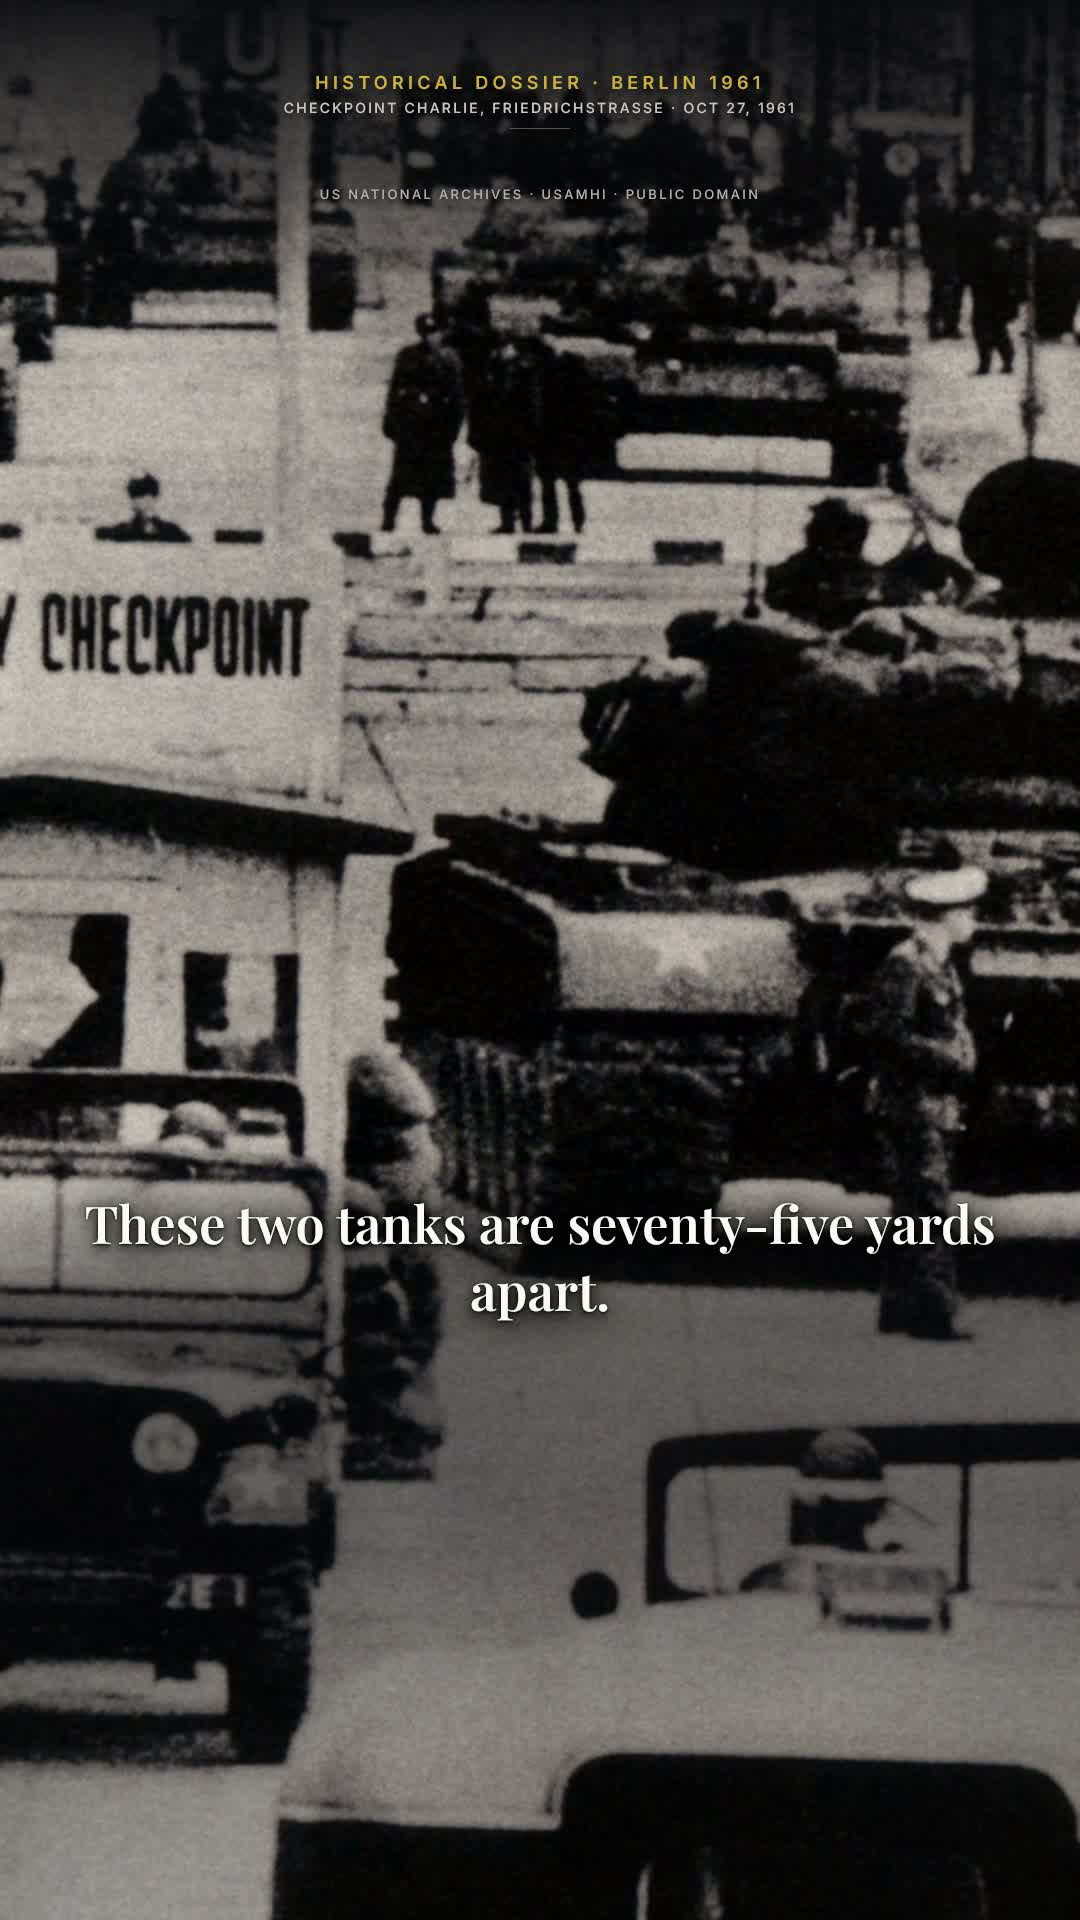
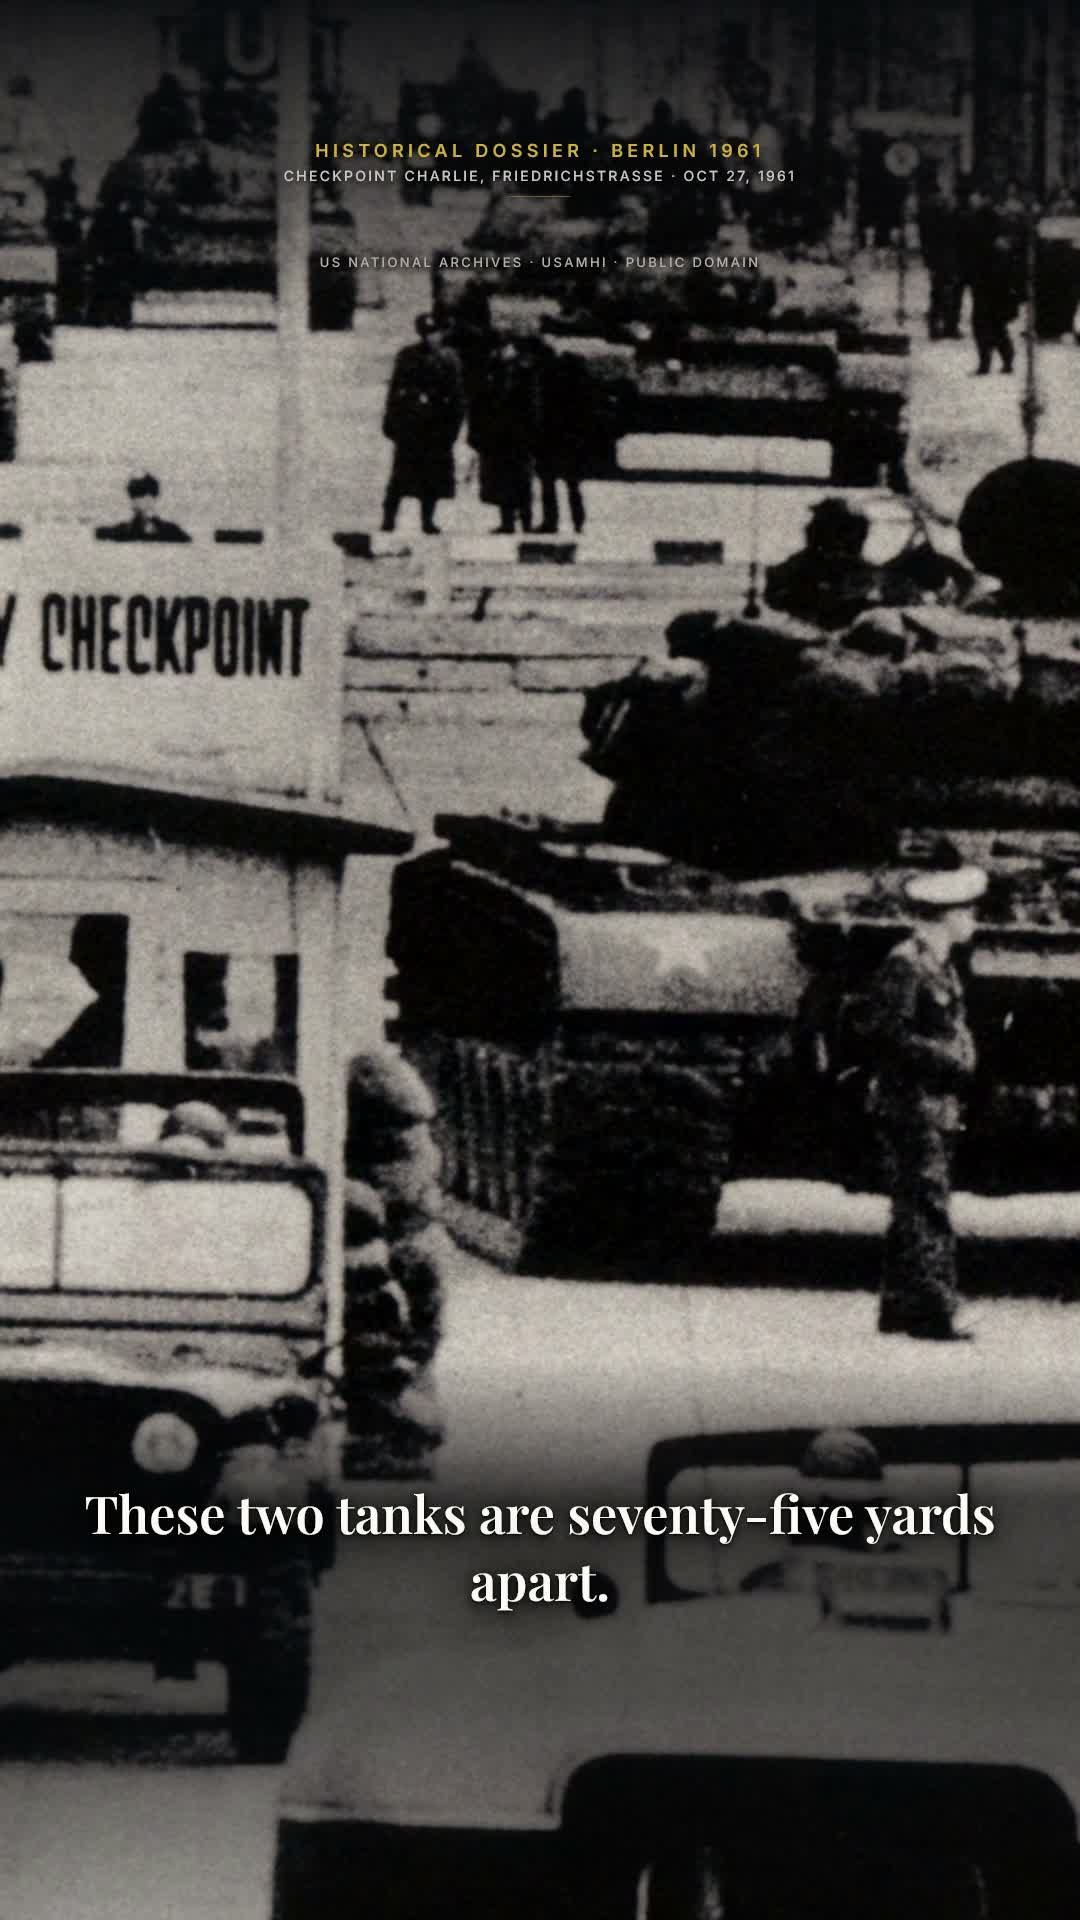
fix(shorts): calibrate SP-02 caption vertical positioning and contrast

Changed region(s): [[0.0, 0.5938, 1.0, 0.9688], [0.275, 0.0312, 0.7028, 0.0938]]

diff --git a/learning-videos/shorts-experiments/sp-02-berlin-wall-leap/index.html b/learning-videos/shorts-experiments/sp-02-berlin-wall-leap/index.html
@@ -172,15 +172,15 @@
         bottom: 0;
         left: 0;
         width: 1080px;
-        height: 770px;
+        height: 640px;
         pointer-events: none;
         background: linear-gradient(
           to bottom,
           rgba(9, 10, 13, 0) 0%,
-          rgba(9, 10, 13, 0.56) 22%,
-          rgba(9, 10, 13, 0.52) 50%,
-          rgba(9, 10, 13, 0.34) 75%,
-          rgba(9, 10, 13, 0.22) 100%
+          rgba(9, 10, 13, 0.72) 20%,
+          rgba(9, 10, 13, 0.75) 55%,
+          rgba(9, 10, 13, 0.45) 85%,
+          rgba(9, 10, 13, 0.25) 100%
         );
         z-index: 10;
       }
@@ -227,10 +227,10 @@
       /* EDITORIAL TEXT STAGE */
       #text-stage {
         position: absolute;
-        top: 1100px;
+        top: 1390px;
         left: 80px;
         width: 920px;
-        height: 400px;
+        height: 220px;
         display: flex;
         justify-content: center;
         align-items: center;
@@ -241,19 +241,21 @@
 
       .story-line {
         position: absolute;
-        top: 40px;
+        top: 10px;
         left: 0;
         width: 100%;
         font-family: "Playfair Display", Georgia, serif;
         font-size: 52px;
-        font-weight: 600;
+        font-weight: 700;
         line-height: 1.28;
-        color: #fdfbf7;
+        color: #ffffff;
+        -webkit-text-stroke: 1px rgba(0, 0, 0, 0.85);
         text-shadow:
-          0 0 34px rgba(0, 0, 0, 0.98),
-          0 3px 12px rgba(0, 0, 0, 1),
-          0 1px 3px rgba(0, 0, 0, 1),
-          0 0 60px rgba(0, 0, 0, 0.9);
+          0 0 20px rgba(0, 0, 0, 1),
+          0 0 40px rgba(0, 0, 0, 1),
+          0 4px 16px rgba(0, 0, 0, 1),
+          0 2px 4px rgba(0, 0, 0, 1),
+          0 0 80px rgba(0, 0, 0, 0.95);
         opacity: 0;
         text-align: center;
         pointer-events: none;
@@ -264,9 +266,11 @@
         font-weight: 700;
         letter-spacing: -0.01em;
         color: #ffffff;
+        -webkit-text-stroke: 1.5px rgba(0, 0, 0, 0.9);
         text-shadow:
           0 6px 32px rgba(0, 0, 0, 1),
-          0 2px 8px rgba(0, 0, 0, 1);
+          0 2px 8px rgba(0, 0, 0, 1),
+          0 0 50px rgba(0, 0, 0, 1);
       }
 
       /* ARCHIVAL FOOTER */
@@ -385,8 +389,8 @@
       tl.to("#photo-wrapper", { x: -380, y: -620, scale: 1.53, duration: 2.50, ease: "none" }, 7.87);
 
       // 10.40 : Pan onto American M48 Patton in foreground BEFORE Line 5 lands (11.11s)
-      tl.to("#photo-wrapper", { x: -1650, y: -1050, scale: 1.85, duration: 1.78, ease: "power2.inOut" }, 10.40);
-      tl.to("#photo-wrapper", { x: -1700, y: -1080, scale: 1.90, duration: 1.00, ease: "none" }, 12.20);
+      tl.to("#photo-wrapper", { x: -1650, y: -1130, scale: 1.85, duration: 1.78, ease: "power2.inOut" }, 10.40);
+      tl.to("#photo-wrapper", { x: -1700, y: -1160, scale: 1.90, duration: 1.00, ease: "none" }, 12.20);
 
       // 13.20 : Pan up Friedrichstrasse tightly onto Soviet T-55s BEFORE Line 6 lands (13.66s)
       tl.to("#photo-wrapper", { x: -2050, y: -450, scale: 2.25, duration: 1.80, ease: "power2.inOut" }, 13.20);

diff --git a/wiki/hot.md b/wiki/hot.md
@@ -20,8 +20,8 @@ tags:
 4. `Visual & Framing HyperFrames`:
    - Canvas 1080×1920 (9:16), framing full-bleed height-matched (2335×1920), bebas dead black space.
    - Header archival docket digeser ke $y=140\text{px}$ untuk mematuhi safe area TikTok/Shorts UI mobile.
-   - Text stage diposisikan di $y=1100\text{px}$ di atas bodi jeep.
-   - Pergerakan kamera GSAP presisi: freeze frame-0, snap zoom konfrontasi 75 yard, pan guardhouse, zoom-in M48 Patton ($1.85\times$), pan deep zoom T-55 Soviet ($2.25\times$), deep punch ke moncong meriam ($2.05\times$), dan wide panorama pullback.
+   - Text stage dikalibrasi ke $y=1390\text{px}$ dengan botscrim 640px pekat dan text stroke ganda 1px, membersihkan collision dengan frame tubular kaca depan kendaraan dan bebas tabrakan dengan UI layer YouTube Shorts mobile.
+   - Pergerakan kamera GSAP presisi: freeze frame-0, snap zoom konfrontasi 75 yard, pan guardhouse, zoom-in M48 Patton ($1.85\times$, pan vertikal $y=-1130\text{px}$ untuk komposisi seimbang), pan deep zoom T-55 Soviet ($2.25\times$), deep punch ke moncong meriam ($2.05\times$), dan wide panorama pullback.
 5. `QA & Verifikasi`:
    - `hyperframes check`: 0 errors, 0 warnings, 5/5 WCAG AA contrast pass.
    - Master MP4 dirender ke `learning-videos/exports/SP02_Checkpoint_Charlie_Standoff_Short_1080p.mp4` (46.2 MB, 34.03s, 1080×1920 30 fps, H.264 + AAC stereo).
